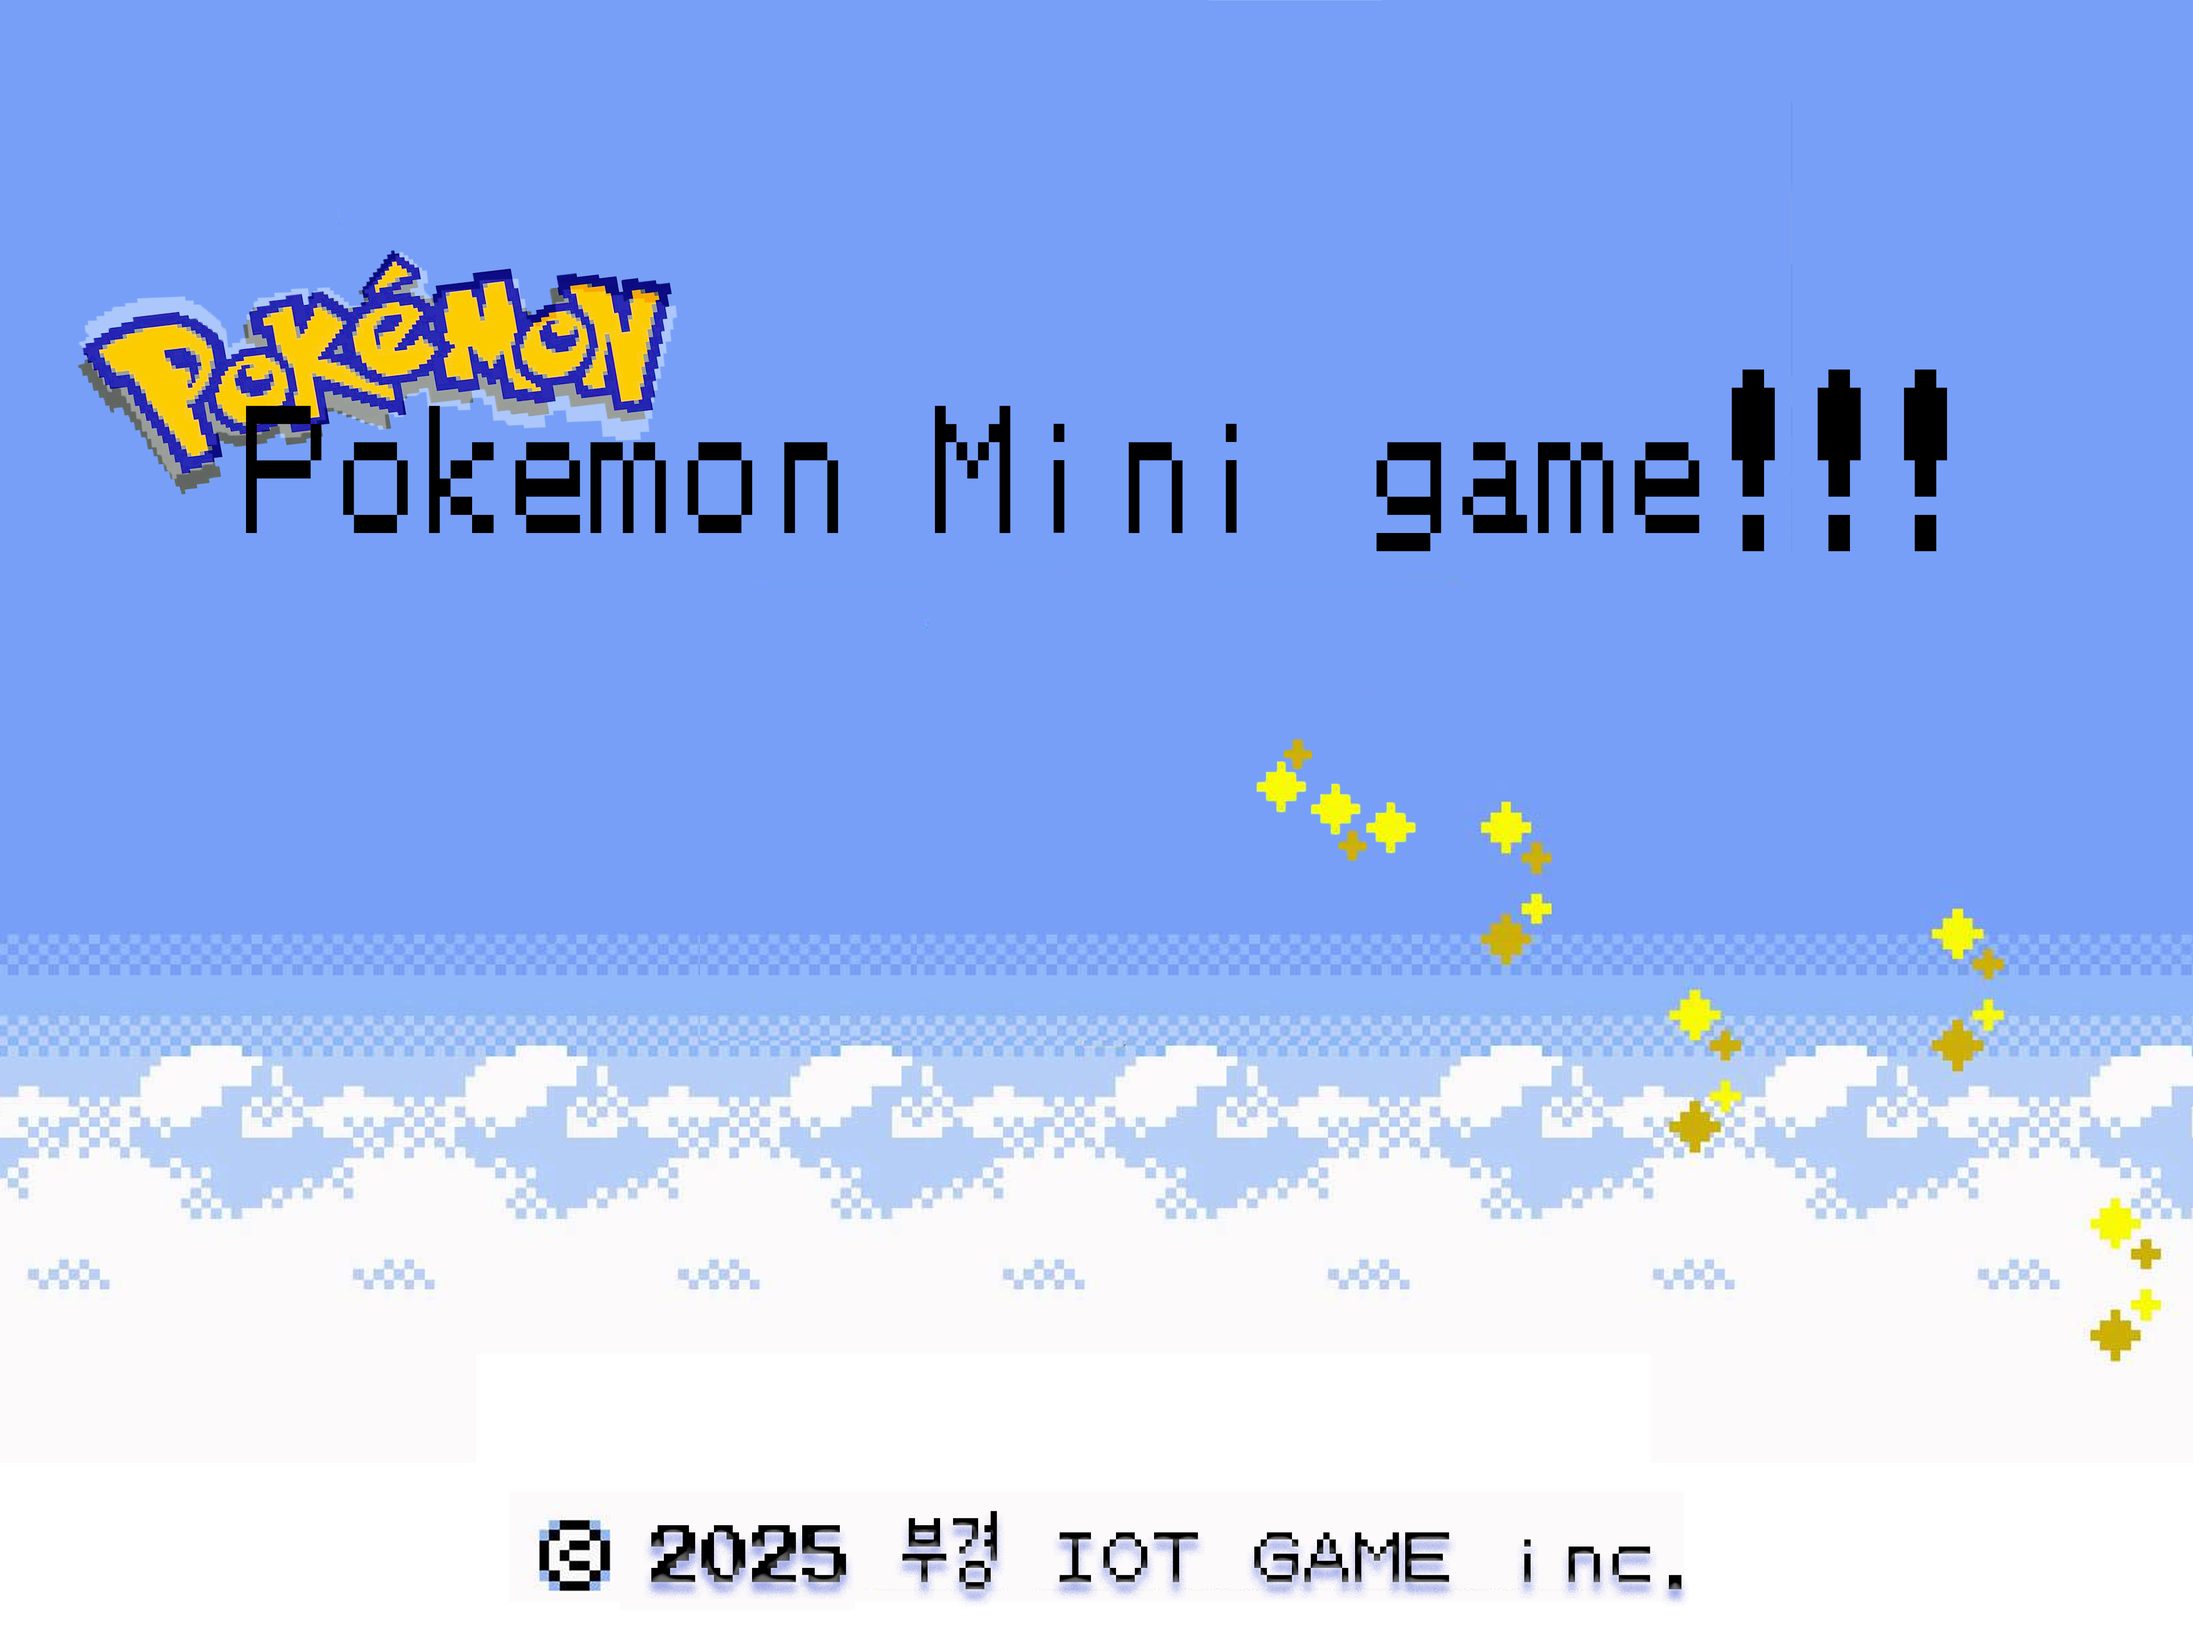
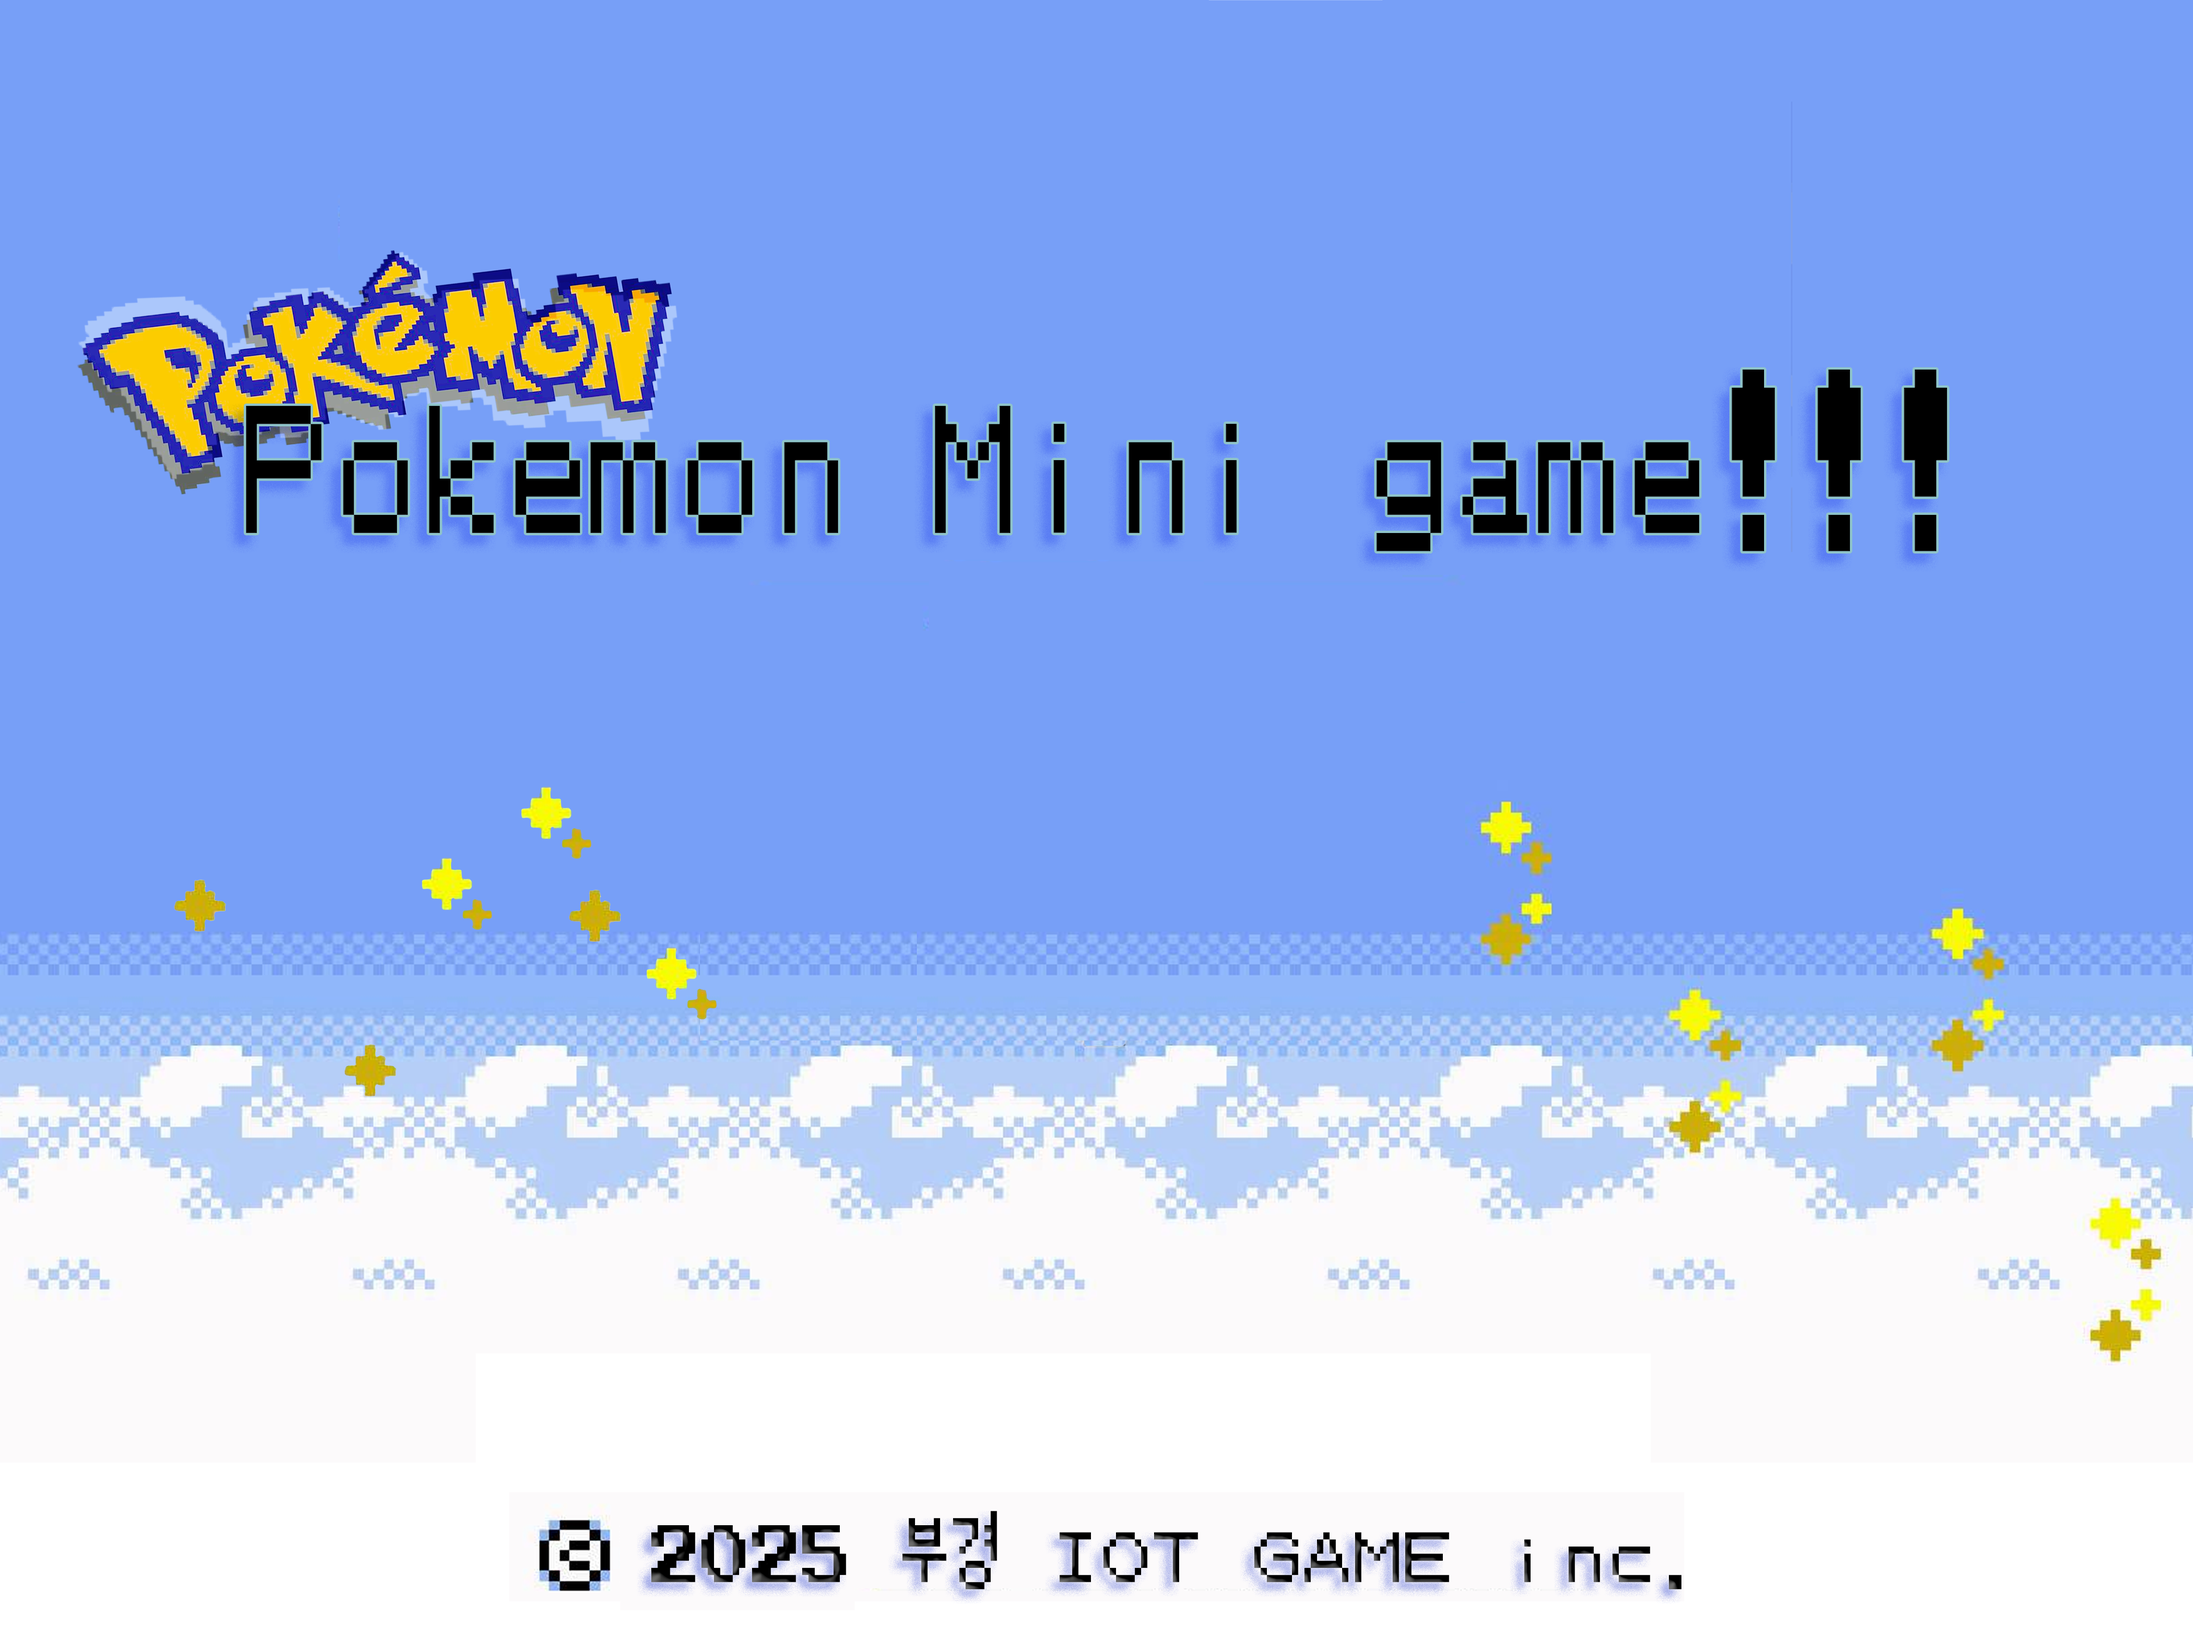
2일차 - 애니메이션기능 추가

diff --git a/Client/LoginScene.hpp b/Client/LoginScene.hpp
@@ -5,6 +5,8 @@
 #include "SceneManager.h"
 #include "LoginScene.hpp"
 #include "worldScene.hpp"
+#include "AnimatedObject.hpp"
+#include "AnimationManager.hpp"
 #include "UIButton.hpp"
 #include "UITextBox.hpp"
 #include "UIManager.hpp"
@@ -12,18 +14,39 @@
 
 class LoginScene : public BaseScene {
 private:
+    sf::Texture bgTex;
+    std::optional<sf::Sprite> bg;
+    sf::Vector2f bgtextureSize;
+    sf::Vector2f windowSize;
     sf::Font font;
-    sf::Text title;
+    sf::Text id;
+    sf::Text pswd;
+    AnimationManager aniManager;
     UIManager uiManager;
     UITextBox* idBox = nullptr;
     UITextBox* pwBox = nullptr;
 
 public:
-    LoginScene() : font("C:/Source/project_pkmbattle/Client/fonts/POKEMONGSKMONO.TTF"), title(font, "LOGIN SCENE", 60) {} 
+    LoginScene() 
+        : font("C:/Source/project_pkmbattle/Client/fonts/POKEMONGSKMONO.TTF")
+        , id(font, "ID", 30) 
+        , pswd(font,"PASSWORD",30) 
+    {}
 
     void init() override {
-        title.setFillColor(sf::Color::White);
-        title.setPosition({ 200, 50 });
+        bgTex.loadFromFile("C:/Source/project_pkmbattle/Client/assets/introbg.png");
+        bgtextureSize = static_cast<sf::Vector2f>(bgTex.getSize());
+        windowSize = static_cast<sf::Vector2f>(GameManager::getInstance().getWindow().getSize());
+        bg.emplace(bgTex);
+        bg->setScale({ (windowSize.x / bgtextureSize.x), (windowSize.y / bgtextureSize.y) });
+        bg->setPosition({ 0.f, 0.f });
+
+        id.setFillColor(sf::Color::Black);
+        pswd.setFillColor(sf::Color::Black);
+        id.setPosition({ 270, 277.f });
+        pswd.setPosition({ 180, 305.f });
+
+
         idBox = new UITextBox(
             { 300.f, (272.f + 28.f) },
             { 200.f, 28.f },
@@ -34,11 +57,12 @@ public:
             { 200.f, 28.f },
             font
         );
+
         uiManager.addElement(idBox);
         uiManager.addElement(pwBox);
         
         uiManager.addElement(new UIButton(
-            { 500.f, 300.f },
+            { 505.f, 300.f },
             { 150.f, 56.f },
             "LOGIN",
             sf::Color::White,
@@ -47,7 +71,11 @@ public:
                 std::string id = idBox->getInput();
                 std::string pw = pwBox->getInput();
                 id.erase(remove(id.begin(), id.end(),' '),id.end());
+                id.erase(remove(id.begin(), id.end(),'\t'),id.end());
+                id.erase(remove(id.begin(), id.end(),'\n'),id.end());
                 pw.erase(remove(pw.begin(), pw.end(),' '),pw.end());
+                pw.erase(remove(pw.begin(), pw.end(),'\t'),pw.end());
+                pw.erase(remove(pw.begin(), pw.end(),'\n'),pw.end());
                 std::cout << "[LOGIN] ID: " << id << ", PW: " << pw << "\n";
 
                 if (id == "admin" && pw == "1234") {
@@ -58,6 +86,25 @@ public:
                 }
             }
         ));
+        
+        AnimatedObject Seokjun(
+            "C:/Source/project_pkmbattle/Client/assets/seokjun.png",
+            { 700, 100 }, 20.f, 0.f, 255.f , 1.f , 2.f , -1
+        );
+        Seokjun.setScale({ 2.f,2.f });
+        aniManager.add(Seokjun, [](AnimatedObject& obj, float dt) {
+            obj.move(dt);
+            });
+
+        AnimatedObject gugu(
+            "C:/Source/project_pkmbattle/Client/assets/gugu.png",
+            { 600, 100 }, 50.f, 0.f, 255.f, 100.f, 2.f, -1
+        );
+        gugu.setScale({ 1.1f,1.1f });
+        aniManager.add(gugu, [](AnimatedObject& obj, float dt) {
+            obj.move(dt, 800.f);
+        });
+
     }
 
     void handleInput(const sf::Event& event, sf::RenderWindow& window) override {
@@ -65,11 +112,15 @@ public:
     }
 
     void update(sf::RenderWindow& window) override {
+        aniManager.updateAll(TimeManager::getInstance().getDeltaTime());
         uiManager.update(window);
     }
 
     void render(sf::RenderWindow& window) override {
-        window.draw(title);
+        window.draw(*bg);
+        aniManager.renderAll(window);
+        window.draw(id);
+        window.draw(pswd);
         uiManager.render(window);
     }
 };

diff --git a/Client/OpeningScene.hpp b/Client/OpeningScene.hpp
@@ -9,36 +9,49 @@
 
 class OpeningScene : public BaseScene {
 private:
+    sf::Font font;
+    sf::Text text;
     AnimationManager aniManager;
+    std::unique_ptr<AnimatedObject> MADEBY;
+    std::unique_ptr<AnimatedObject> KHSJ;
     
 public:
-    OpeningScene() {};
+    OpeningScene()
+        : font("C:/Source/project_pkmbattle/Client/fonts/POKEMONGSKMONO.TTF")
+        , text(font,"SKIP : ESC", 24)
+    {};
 
     void init() override {
+        text.setPosition({ 650, 0 });
+        MADEBY = std::unique_ptr<AnimatedObject>(new AnimatedObject("C:/Source/project_pkmbattle/Client/assets/MADEBY.png",
+            { 250 , 100 }, 200.f, 0.f));
+            
+        KHSJ = std::unique_ptr<AnimatedObject>(new AnimatedObject("C:/Source/project_pkmbattle/Client/assets/KHSJ.png",
+            { 250 , 200 }, 200.f, 0.f));
 
         AnimatedObject Chansoo(
             "C:/Source/project_pkmbattle/Client/assets/chansoo.png",
-            { 250, 300 }, 200.f , 0.5f
+            { 250, 400 }, 200.f , 0.5f , 0
         );
         AnimatedObject Bojeong(
             "C:/Source/project_pkmbattle/Client/assets/bojeong.png",
-            { 300, 300 }, 200.f , 1.0f
+            { 300, 400 }, 200.f , 1.0f , 0
         );
         AnimatedObject Dongkwan(
             "C:/Source/project_pkmbattle/Client/assets/dongwan.png",
-            { 350, 300 }, 200.f , 1.5f
+            { 350, 400 }, 200.f , 1.5f , 0
         );
         AnimatedObject Seokjun(
             "C:/Source/project_pkmbattle/Client/assets/seokjun.png",
-            { 400, 300 }, 200.f , 2.0f
+            { 400, 400 }, 200.f , 2.0f , 0
         );
         AnimatedObject Hyeongwoo(
             "C:/Source/project_pkmbattle/Client/assets/hyeongwoo.png",
-            { 450, 300 }, 200.f , 2.5f
+            { 450, 400 }, 200.f , 2.5f , 0
         );
         AnimatedObject Bigjun(
             "C:/Source/project_pkmbattle/Client/assets/bigjun.png",
-            { 500, 300 }, 200.f , 3.0f
+            { 500, 400 }, 200.f , 3.0f , 0 
         );
 
         aniManager.add(Chansoo, [](AnimatedObject& obj, float dt)
@@ -88,6 +101,9 @@ public:
     }
 
     void render(sf::RenderWindow& window) override {
+        window.draw(text);
+        MADEBY->draw(window);
+        KHSJ->draw(window);
         aniManager.renderAll(window);
     }
 };

diff --git a/Client/TimeManager.hpp b/Client/TimeManager.hpp
@@ -5,6 +5,7 @@ class TimeManager {
 private:
     sf::Clock clock;
     float deltaTime = 0.f;
+    const float targetFrameTime = 1.f / 15.f; // 15FRAME
     TimeManager() = default;
 
 public:
@@ -13,9 +14,21 @@ public:
         return instance;
     }
 
-    void update() {
-        deltaTime = clock.restart().asSeconds();
+    void tick() {
+        float frameStart = clock.getElapsedTime().asSeconds();
+        deltaTime = targetFrameTime;
+
+        float elapsed = clock.getElapsedTime().asSeconds() - frameStart;
+        float sleepTime = targetFrameTime - elapsed;
+        if (sleepTime > 0.f)
+            sf::sleep(sf::seconds(sleepTime));
+
+        clock.restart();
     }
+
+    //void update() {
+    //    deltaTime = clock.restart().asSeconds();
+    //}
 
     float getDeltaTime() const {
         return deltaTime;

diff --git a/Client/TitleScene.hpp b/Client/TitleScene.hpp
@@ -38,6 +38,8 @@ public:
         AnimatedObject bird("C:/Source/project_pkmbattle/Client/assets/introbird.png",
             {windowSize.x/2, windowSize.y/2}, 
             850.f,
+            0.f,
+            255.f,
             50.f,
             7.f
         );
@@ -46,12 +48,12 @@ public:
 
         AnimatedObject text1("C:/Source/project_pkmbattle/Client/assets/kstext.png",
             { windowSize.x/2.f, 36 },
-            100.f, 0.f, 0.f, 1
+            100.f, 0.f, 255.f, 0.f,0.f,1
         );
 
         AnimatedObject text2("C:/Source/project_pkmbattle/Client/assets/hjtext.png",
             { windowSize.x / 2.f, 89 },
-            100.f, 0.f, 0.f, -1
+            100.f, 0.f, 255.f,0.f,0.f, -1
         );
 
         text1.setScale({ 0.2,0.2 });

diff --git a/Client/worldScene.hpp b/Client/worldScene.hpp
@@ -6,6 +6,7 @@
 #include "LoginScene.hpp"
 #include "UIButton.hpp"
 #include "UIManager.hpp"
+#include "TimeManager.hpp"
 #include "Player.h"
 
 class worldScene : public BaseScene {
@@ -13,6 +14,7 @@ private:
     sf::Font font;
     sf::Text title;
     UIManager uiManager;
+    Player player;
 
 public:
     worldScene() 
@@ -27,14 +29,14 @@ public:
     }
 
     void handleInput(const sf::Event& event, sf::RenderWindow& window) override {
-
     }
 
     void update(sf::RenderWindow& window) override {
-
+        player.update(TimeManager::getInstance().getDeltaTime());
     }
 
     void render(sf::RenderWindow& window) override {
+        player.draw(window);
         window.draw(title);
     }
 };

diff --git a/Client/AnimationManager.hpp b/Client/AnimationManager.hpp
@@ -14,15 +14,16 @@ public:
     }
 
     bool updateAll(float dt) {
-        bool anyFinished = false;
+        bool allFinished = true; 
         for (size_t i = 0; i < objects.size(); ++i) {
             updateFuncs[i](objects[i], dt);
-            if (objects[i].isFinished()) {
-                anyFinished = true;
+            if (!objects[i].isFinished()) {
+                allFinished = false; 
             }
         }
-        return anyFinished;
+        return allFinished;
     }
+
 
     void renderAll(sf::RenderWindow& window) {
         for (auto& obj : objects) {
@@ -33,4 +34,5 @@ public:
     std::vector<AnimatedObject>& getObjects() {
         return objects;
     }
+
 };
